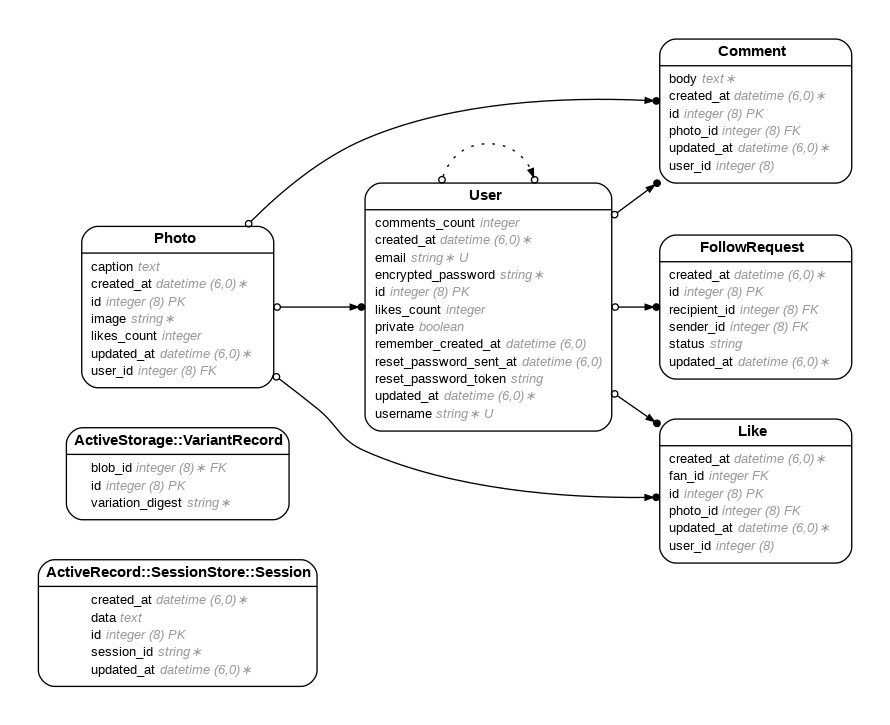
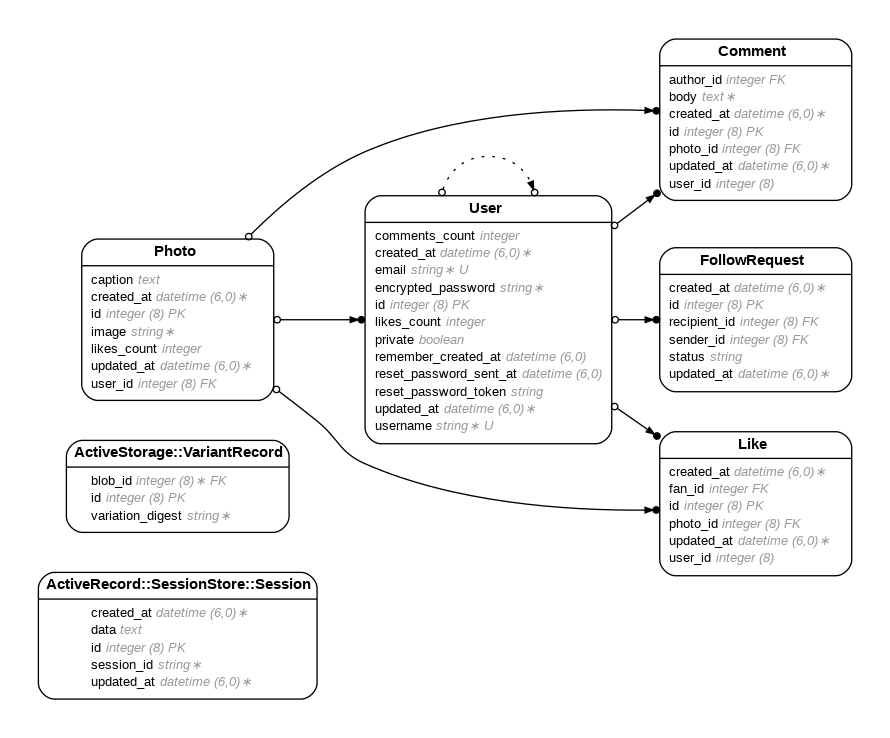
edited comment form

diff --git a/app/controllers/photos_controller.rb b/app/controllers/photos_controller.rb
@@ -7,6 +7,7 @@ class PhotosController < ApplicationController
 
   def show
     @photo = Photo.find(params[:id])
+    @comments = @photo.comments
   end
 
   def new
@@ -15,8 +16,10 @@ class PhotosController < ApplicationController
   def create
     @photo = current_user.photos.build(photo_params)
     if @photo.save
-      redirect_to photos_path, notice: 'Photo was successfully created.'
+      flash[:notice] = 'Photo added successfully.'
+      redirect_to photos_path
     else
+      flash[:alert] = 'Failed to add photo.'
       render :new
     end
   end
@@ -34,26 +37,14 @@ class PhotosController < ApplicationController
     @photo = Photo.find(params[:id])
     # Correctly use 'fan_id' if your Like model has a 'fan' relationship with the User
     new_like = @photo.likes.create(fan_id: current_user.id)
-  
-    if new_like.persisted?
-      flash[:notice] = "Photo liked successfully."
-    else
-      flash[:alert] = "Failed to like the photo."
-    end
-  
-    # Redirect back to the same photo's detail page
+    flash[:notice] = 'You liked this photo.'
     redirect_to photo_path(@photo)
   end
   
   def unlike
     @photo = Photo.find(params[:id])
-    like = @photo.likes.find_by(fan_id: current_user.id)
-  
-    if like&.destroy
-      flash[:notice] = "Like removed."
-    else
-      flash[:alert] = "Failed to remove like."
-    end
+    @photo.likes.where(fan_id: current_user.id).destroy_all
+    flash[:alert] = 'You unliked this photo.'
   
     redirect_to photo_path(@photo)
   end

diff --git a/db/schema.rb b/db/schema.rb
@@ -10,7 +10,7 @@
 #
 # It's strongly recommended that you check this file into your version control system.
 
-ActiveRecord::Schema[7.1].define(version: 2024_12_08_064522) do
+ActiveRecord::Schema[7.1].define(version: 2024_12_08_071031) do
   # These are extensions that must be enabled in order to support this database
   enable_extension "plpgsql"
 
@@ -48,6 +48,8 @@ ActiveRecord::Schema[7.1].define(version: 2024_12_08_064522) do
     t.bigint "photo_id"
     t.datetime "created_at", null: false
     t.datetime "updated_at", null: false
+    t.integer "author_id"
+    t.index ["author_id"], name: "index_comments_on_author_id"
     t.index ["photo_id"], name: "index_comments_on_photo_id"
     t.index ["user_id"], name: "index_comments_on_user_id"
   end

diff --git a/app/uploaders/image_uploader.rb b/app/uploaders/image_uploader.rb
@@ -4,13 +4,17 @@ class ImageUploader < CarrierWave::Uploader::Base
   # include CarrierWave::MiniMagick
 
   # Choose what kind of storage to use for this uploader:
-  storage :file
+  if Rails.env.test?
+    storage :file
   # storage :fog
 
   # Override the directory where uploaded files will be stored.
   # This is a sensible default for uploaders that are meant to be mounted:
-  def store_dir
-    "uploads/#{model.class.to_s.underscore}/#{mounted_as}/#{model.id}"
+    def store_dir
+      "#{Rails.root}/tmp/uploads/#{model.class.to_s.underscore}/#{mounted_as}/#{model.id}"
+    end
+  else
+    storage :file
   end
 
   # Provide a default URL as a default if there hasn't been a file uploaded:

diff --git a/app/controllers/comments_controller.rb b/app/controllers/comments_controller.rb
@@ -1,10 +1,23 @@
 class CommentsController < ApplicationController
+  before_action :set_photo
+
   def create
+    @comment = @photo.comments.build(comment_params) # Associate comment with the photo
+    @comment.author_id = current_user.id
+    if @comment.save
+      redirect_to photo_path(@comment.photo), notice: "Comment added successfully."
+    else
+      redirect_to photo_path(@comment.photo), alert: "Failed to add comment."
+    end
   end
 
-  def update
+  private
+
+  def set_photo
+    @photo = Photo.find(params[:photo_id]) # Ensure `photo_id` comes from the nested route
   end
 
-  def destroy
+  def comment_params
+    params.require(:comment).permit(:body)
   end
 end

diff --git a/app/models/comment.rb b/app/models/comment.rb
@@ -6,13 +6,15 @@
 #  body       :text
 #  created_at :datetime         not null
 #  updated_at :datetime         not null
+#  author_id  :integer
 #  photo_id   :bigint
 #  user_id    :bigint
 #
 # Indexes
 #
-#  index_comments_on_photo_id  (photo_id)
-#  index_comments_on_user_id   (user_id)
+#  index_comments_on_author_id  (author_id)
+#  index_comments_on_photo_id   (photo_id)
+#  index_comments_on_user_id    (user_id)
 #
 # Foreign Keys
 #

diff --git a/app/models/photo.rb b/app/models/photo.rb
@@ -19,9 +19,9 @@
 #  fk_rails_...  (user_id => users.id)
 #
 class Photo < ApplicationRecord
-  belongs_to :owner, class_name: "User", foreign_key: "user_id"
   mount_uploader :image, ImageUploader
 
+  belongs_to :owner, class_name: "User", foreign_key: "user_id"
   has_many :comments, dependent: :destroy
   has_many :likes, dependent: :destroy
   has_many :fans, through: :likes, source: :fan 

diff --git a/config/routes.rb b/config/routes.rb
@@ -29,7 +29,4 @@ Rails.application.routes.draw do
   # Resource routes for Likes
   resources :likes, except: [:new, :edit] # Assuming new and edit are not used
 
-  # Resource routes for Comments
-  resources :comments, except: [:new, :edit] # Assuming new and edit are not used
-
 end

diff --git a/db/migrate/20241208071031_add_author_id_to_comments.rb b/db/migrate/20241208071031_add_author_id_to_comments.rb
@@ -1,0 +1,6 @@
+class AddAuthorIdToComments < ActiveRecord::Migration[7.1]
+  def change
+    add_column :comments, :author_id, :integer
+    add_index :comments, :author_id
+  end
+end
